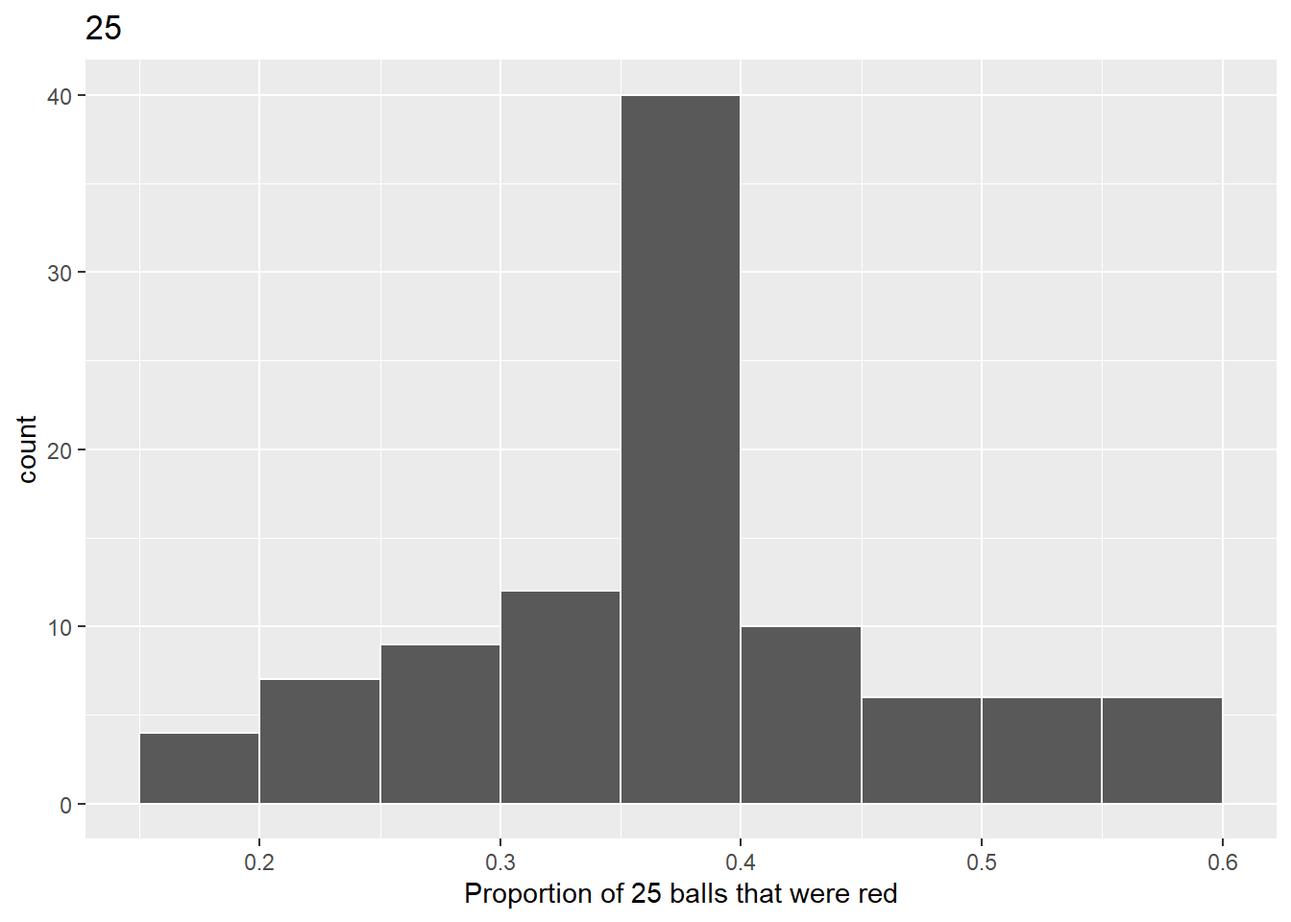
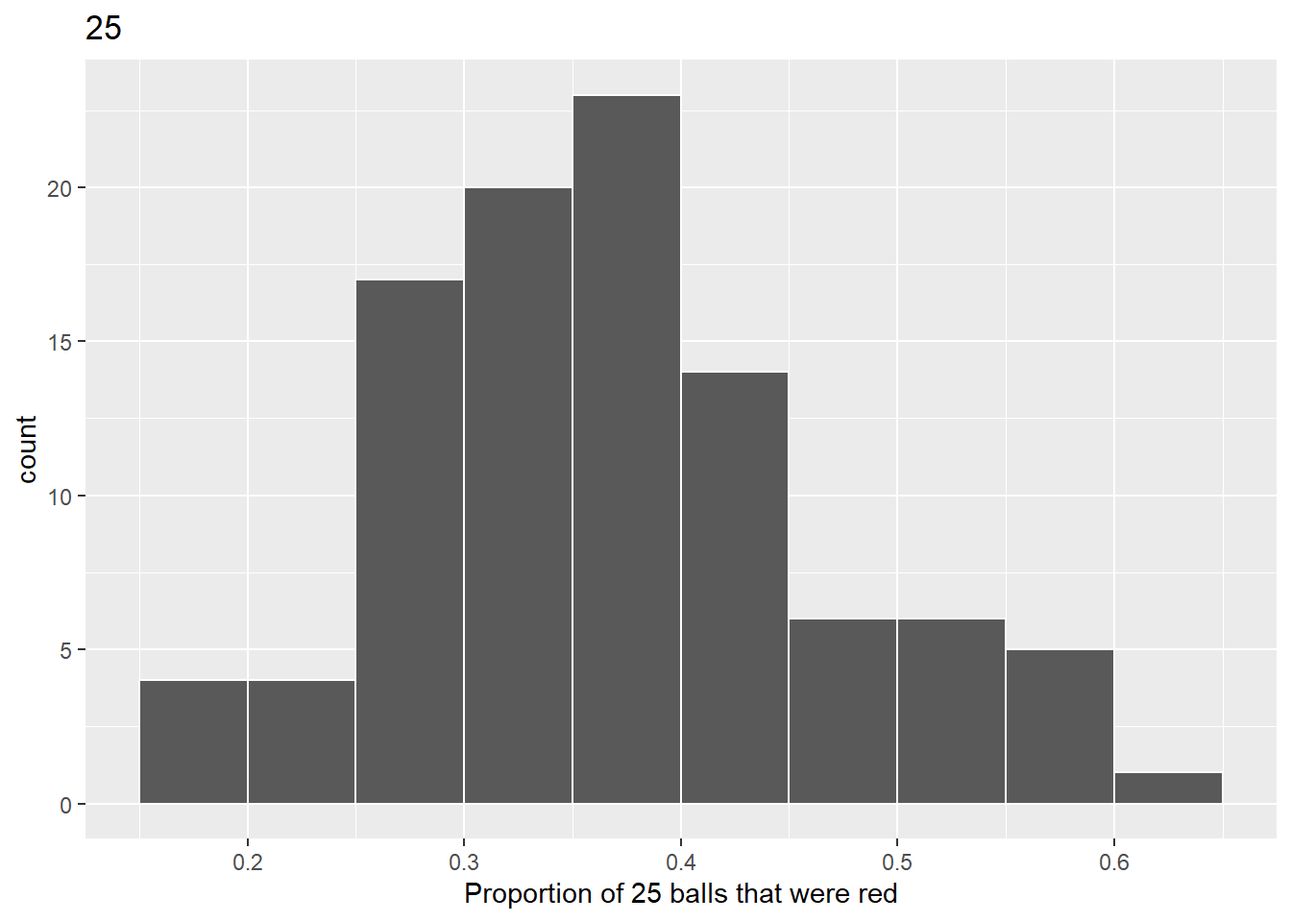
Initial commit

diff --git a/docs/posts/Amostragem/Amostragem.html b/docs/posts/Amostragem/Amostragem.html
@@ -7,7 +7,7 @@
 <meta name="viewport" content="width=device-width, initial-scale=1.0, user-scalable=yes">
 
 <meta name="author" content="Gabriel Palucci Rosa">
-<meta name="dcterms.date" content="2023-12-22">
+<meta name="dcterms.date" content="2023-12-20">
 
 <title>Gabriel Palucci Rosa - Pensando sobre o processo de Amostragem</title>
 <style>
@@ -174,9 +174,9 @@ background-size: cover;
     <div class="quarto-title column-body">
       <h1 class="title">Pensando sobre o processo de Amostragem</h1>
                                 <div class="quarto-categories">
-                <div class="quarto-category">code</div>
-                <div class="quarto-category">soil</div>
-                <div class="quarto-category">analysis</div>
+                <div class="quarto-category">Solo</div>
+                <div class="quarto-category">Amostragem</div>
+                <div class="quarto-category">ggplot</div>
               </div>
                   </div>
   </div>
@@ -194,7 +194,7 @@ background-size: cover;
       <div>
       <div class="quarto-title-meta-heading">Published</div>
       <div class="quarto-title-meta-contents">
-        <p class="date">December 22, 2023</p>
+        <p class="date">December 20, 2023</p>
       </div>
     </div>
     
@@ -211,6 +211,10 @@ background-size: cover;
    
   <ul>
   <li><a href="#introdução" id="toc-introdução" class="nav-link active" data-scroll-target="#introdução">Introdução</a></li>
+  <li><a href="#estudo-de-caso" id="toc-estudo-de-caso" class="nav-link" data-scroll-target="#estudo-de-caso">Estudo de Caso</a>
+  <ul class="collapse">
+  <li><a href="#utilizando-bolinhas-para-enteder-processo-de-amostragem" id="toc-utilizando-bolinhas-para-enteder-processo-de-amostragem" class="nav-link" data-scroll-target="#utilizando-bolinhas-para-enteder-processo-de-amostragem">Utilizando Bolinhas para enteder processo de amostragem</a></li>
+  </ul></li>
   </ul>
 </nav>
     </div>
@@ -223,14 +227,18 @@ background-size: cover;
 
 <section id="introdução" class="level1">
 <h1>Introdução</h1>
-<p>Uns dos vários desafios na realizar uma pesquisa ciêntifica é planejar e executar, de forma eficiente, o processo de deliamento amostral.Um boa amamostragem permitira, realizar melhor discussão sobre dados coletados.</p>
-<p>Nessa aula iremos entender um pouco como funciona a realização de uma amostragem e os efeitos de realizar poucas repetições ou diferentes tamanho da coleta da amostra. Para isso utilizaremos uma base de dados de bolinhhas vermelhas e brancas.</p>
-<p>Importante lembrar o processo de amostragem necessita uma repetição para obter uma frequencia de % da ocorrência do do valor.</p>
+<p>Uns dos vários desafios na realizar uma pesquisa ciêntifica é planejar e executar, de forma eficiente, o processo de deliamento amostral.Um boa amamostragem permitira, realizar melhor discussão sobre dados coletados. Esse post busco apresentar um pouco sobre o processo de realizar amostragem e os efeitos de realizar poucas repetições ou diferentes tamanho da coleta da amostra.</p>
+<p>Antes de utilizar exemplos sobre solo, utilizaremos uma base de dados de bolinhhas vermelhas e brancas. Importante lembrar o processo de amostragem necessita uma repetição para obter uma frequencia de % da ocorrência do do valor.</p>
 <p>Assim, existe dois efeitos improtantes que serão descutidos nesse tópico</p>
 <ul>
 <li>Efeito na variação de dados nas amostragem</li>
 <li>EFeito do tamanho da amostragem na variação da amostra</li>
 </ul>
+</section>
+<section id="estudo-de-caso" class="level1">
+<h1>Estudo de Caso</h1>
+<section id="utilizando-bolinhas-para-enteder-processo-de-amostragem" class="level2">
+<h2 class="anchored" data-anchor-id="utilizando-bolinhas-para-enteder-processo-de-amostragem">Utilizando Bolinhas para enteder processo de amostragem</h2>
 <p>#/Pacotes</p>
 <div class="cell">
 <div class="sourceCode cell-code" id="cb1"><pre class="sourceCode r code-with-copy"><code class="sourceCode r"><span id="cb1-1"><a href="#cb1-1" aria-hidden="true" tabindex="-1"></a><span class="fu">library</span>(tidyverse)</span></code><button title="Copy to Clipboard" class="code-copy-button"><i class="bi"></i></button></pre></div>
@@ -249,7 +257,7 @@ background-size: cover;
 <div class="sourceCode cell-code" id="cb3"><pre class="sourceCode r code-with-copy"><code class="sourceCode r"><span id="cb3-1"><a href="#cb3-1" aria-hidden="true" tabindex="-1"></a><span class="fu">library</span>(moderndive)</span></code><button title="Copy to Clipboard" class="code-copy-button"><i class="bi"></i></button></pre></div>
 </div>
 <p>#/Dados</p>
-<p>Para isso vamos utilizar a base de dados bowl para demostrar o processo de amostragem</p>
+<p>Para isso vamos utilizar a base de dados <em>bowl</em> para demostrar o processo de amostragem</p>
 <div class="cell">
 <div class="sourceCode cell-code" id="cb4"><pre class="sourceCode r code-with-copy"><code class="sourceCode r"><span id="cb4-1"><a href="#cb4-1" aria-hidden="true" tabindex="-1"></a>bowl</span></code><button title="Copy to Clipboard" class="code-copy-button"><i class="bi"></i></button></pre></div>
 <div class="cell-output cell-output-stdout">
@@ -273,7 +281,7 @@ background-size: cover;
 <div class="sourceCode cell-code" id="cb6"><pre class="sourceCode r code-with-copy"><code class="sourceCode r"><span id="cb6-1"><a href="#cb6-1" aria-hidden="true" tabindex="-1"></a>virtual_shovel <span class="ot">&lt;-</span> bowl <span class="sc">%&gt;%</span> </span>
 <span id="cb6-2"><a href="#cb6-2" aria-hidden="true" tabindex="-1"></a>     <span class="fu">rep_sample_n</span>(<span class="at">size =</span> <span class="dv">50</span>)</span></code><button title="Copy to Clipboard" class="code-copy-button"><i class="bi"></i></button></pre></div>
 </div>
-<p>Nesse caso selecionamos 50 amostras de forma randômica do nossa base de dados.</p>
+<p>Nesse caso, utilizamos o comando <em>rep_sample_n</em> para selecior 50 amostras de forma randômica do nossa base de dados.</p>
 <div class="cell">
 <div class="sourceCode cell-code" id="cb7"><pre class="sourceCode r code-with-copy"><code class="sourceCode r"><span id="cb7-1"><a href="#cb7-1" aria-hidden="true" tabindex="-1"></a>virtual_shovel <span class="sc">%&gt;%</span></span>
 <span id="cb7-2"><a href="#cb7-2" aria-hidden="true" tabindex="-1"></a>  <span class="fu">mutate</span>(<span class="at">is_red =</span> color <span class="sc">==</span> <span class="st">"red"</span>) <span class="sc">%&gt;%</span> </span>
@@ -283,7 +291,7 @@ background-size: cover;
 <pre><code># A tibble: 1 × 3
   replicate num_red prop_red
       &lt;int&gt;   &lt;int&gt;    &lt;dbl&gt;
-1         1      21     0.42</code></pre>
+1         1      15      0.3</code></pre>
 </div>
 </div>
 <p>Nesse exemplo, pegamos nossa base de dados <em>virtual_shovel</em> criamos uma variaável Logical utilizando argumento cor é igual a vermelho, posteriormente realizamos summarize da soma dessa nova variável e finalizamos obtendo a proporção de vermelho na amostragem total que é 50.</p>
@@ -297,21 +305,22 @@ background-size: cover;
 <pre><code># A tibble: 33 × 3
    replicate   red prop_red
        &lt;int&gt; &lt;int&gt;    &lt;dbl&gt;
- 1         1    20     0.4 
- 2         2    21     0.42
+ 1         1    16     0.32
+ 2         2    16     0.32
  3         3    14     0.28
- 4         4    11     0.22
- 5         5    15     0.3 
- 6         6    20     0.4 
- 7         7    19     0.38
- 8         8    17     0.34
- 9         9    16     0.32
-10        10    23     0.46
+ 4         4    16     0.32
+ 5         5    17     0.34
+ 6         6    21     0.42
+ 7         7    14     0.28
+ 8         8    16     0.32
+ 9         9    14     0.28
+10        10    17     0.34
 # ℹ 23 more rows</code></pre>
 </div>
 </div>
 <p>Como podemos observar, realizamos uma amostragem de 50 bolinhas 33 vezes e obtemos a proporção de bolinhar vermelhas em cada amostragem.</p>
-<p><em>O valor do tamanho da amostragem influência na proporção das bolinhas vermelhas?</em> <em>O valor do tamanho da amostragem influência desvio padrão das bolinhas vermelhas?</em></p>
+<p><em>O valor do tamanho da amostragem influência na proporção das bolinhas vermelhas?</em></p>
+<p><em>O valor do tamanho da amostragem influência desvio padrão das bolinhas vermelhas?</em></p>
 <p>Desde modo iremos realizar amostragem 25,50, 100 bolinhas em 100 repetições e observar a resposta da porcentagem e sua frequencia</p>
 <div class="cell">
 <div class="sourceCode cell-code" id="cb11"><pre class="sourceCode r code-with-copy"><code class="sourceCode r"><span id="cb11-1"><a href="#cb11-1" aria-hidden="true" tabindex="-1"></a>virtual_samples_25 <span class="ot">&lt;-</span> bowl <span class="sc">%&gt;%</span> </span>
@@ -390,7 +399,7 @@ background-size: cover;
 <pre><code># A tibble: 1 × 1
       sd
    &lt;dbl&gt;
-1 0.0655</code></pre>
+1 0.0688</code></pre>
 </div>
 <div class="sourceCode cell-code" id="cb16"><pre class="sourceCode r code-with-copy"><code class="sourceCode r"><span id="cb16-1"><a href="#cb16-1" aria-hidden="true" tabindex="-1"></a><span class="co"># n = 100</span></span>
 <span id="cb16-2"><a href="#cb16-2" aria-hidden="true" tabindex="-1"></a>virtual_prop_red_100 <span class="sc">%&gt;%</span> </span>
@@ -399,182 +408,14 @@ background-size: cover;
 <pre><code># A tibble: 1 × 1
       sd
    &lt;dbl&gt;
-1 0.0465</code></pre>
+1 0.0476</code></pre>
 </div>
 </div>
-<p>So as the sample size increases, the standard deviation of the proportion of red balls decreases. This type of standard deviation has another special name: standard error. Standard errors quantify the effect of sampling variation induced on our estimates. In other words, they quantify how much we can expect different proportions of a shovel’s balls that are red to vary from one sample to another sample to another sample, and so on. As a general rule, as sample size increases, the standard error decreases.</p>
-<p>Accuracy describes how “on target” our estimates are, whereas precision describes how “consistent” our estimates are</p>
-<p>Uns dos vários desafios na realizar uma pesquisa ciêntifica é planejar e executar, de forma eficiente, o processo de deliamento amostral.Um boa amamostragem permitira, realizar melhor discussão sobre dados coletados.</p>
-<p>Nessa aula iremos entender um pouco como funciona a realização de uma amostragem e os efeitos de realizar poucas repetições ou diferentes tamanho da coleta da amostra. Para isso utilizaremos uma base de dados de bolinhhas vermelhas e brancas.</p>
-<p>Importante lembrar o processo de amostragem necessita uma repetição para obter uma frequencia de % da ocorrência do do valor.</p>
-<p>Assim, existe dois efeitos improtantes que serão descutidos nesse tópico</p>
-<ul>
-<li>Efeito na variação de dados nas amostragem</li>
-<li>EFeito do tamanho da amostragem na variação da amostra</li>
-</ul>
-<p>#/Pacotes</p>
-<div class="cell">
-<div class="sourceCode cell-code" id="cb18"><pre class="sourceCode r code-with-copy"><code class="sourceCode r"><span id="cb18-1"><a href="#cb18-1" aria-hidden="true" tabindex="-1"></a><span class="fu">library</span>(tidyverse)</span>
-<span id="cb18-2"><a href="#cb18-2" aria-hidden="true" tabindex="-1"></a><span class="fu">library</span>(moderndive)</span></code><button title="Copy to Clipboard" class="code-copy-button"><i class="bi"></i></button></pre></div>
-</div>
-<p>#/Dados</p>
-<p>Para isso vamos utilizar a base de dados bowl para demostrar o processo de amostragem</p>
-<div class="cell">
-<div class="sourceCode cell-code" id="cb19"><pre class="sourceCode r code-with-copy"><code class="sourceCode r"><span id="cb19-1"><a href="#cb19-1" aria-hidden="true" tabindex="-1"></a>bowl</span></code><button title="Copy to Clipboard" class="code-copy-button"><i class="bi"></i></button></pre></div>
-<div class="cell-output cell-output-stdout">
-<pre><code># A tibble: 2,400 × 2
-   ball_ID color
-     &lt;int&gt; &lt;chr&gt;
- 1       1 white
- 2       2 white
- 3       3 white
- 4       4 red  
- 5       5 white
- 6       6 white
- 7       7 red  
- 8       8 white
- 9       9 red  
-10      10 white
-# ℹ 2,390 more rows</code></pre>
-</div>
-</div>
-<div class="cell">
-<div class="sourceCode cell-code" id="cb21"><pre class="sourceCode r code-with-copy"><code class="sourceCode r"><span id="cb21-1"><a href="#cb21-1" aria-hidden="true" tabindex="-1"></a>virtual_shovel <span class="ot">&lt;-</span> bowl <span class="sc">%&gt;%</span> </span>
-<span id="cb21-2"><a href="#cb21-2" aria-hidden="true" tabindex="-1"></a>     <span class="fu">rep_sample_n</span>(<span class="at">size =</span> <span class="dv">50</span>)</span></code><button title="Copy to Clipboard" class="code-copy-button"><i class="bi"></i></button></pre></div>
-</div>
-<p>Nesse caso selecionamos 50 amostras de forma randômica do nossa base de dados.</p>
-<div class="cell">
-<div class="sourceCode cell-code" id="cb22"><pre class="sourceCode r code-with-copy"><code class="sourceCode r"><span id="cb22-1"><a href="#cb22-1" aria-hidden="true" tabindex="-1"></a>virtual_shovel <span class="sc">%&gt;%</span></span>
-<span id="cb22-2"><a href="#cb22-2" aria-hidden="true" tabindex="-1"></a>  <span class="fu">mutate</span>(<span class="at">is_red =</span> color <span class="sc">==</span> <span class="st">"red"</span>) <span class="sc">%&gt;%</span> </span>
-<span id="cb22-3"><a href="#cb22-3" aria-hidden="true" tabindex="-1"></a>  <span class="fu">summarize</span>(<span class="at">num_red =</span> <span class="fu">sum</span>(is_red)) <span class="sc">%&gt;%</span> </span>
-<span id="cb22-4"><a href="#cb22-4" aria-hidden="true" tabindex="-1"></a>  <span class="fu">mutate</span>(<span class="at">prop_red =</span> num_red <span class="sc">/</span> <span class="dv">50</span>)</span></code><button title="Copy to Clipboard" class="code-copy-button"><i class="bi"></i></button></pre></div>
-<div class="cell-output cell-output-stdout">
-<pre><code># A tibble: 1 × 3
-  replicate num_red prop_red
-      &lt;int&gt;   &lt;int&gt;    &lt;dbl&gt;
-1         1      18     0.36</code></pre>
-</div>
-</div>
-<p>Nesse exemplo, pegamos nossa base de dados <em>virtual_shovel</em> criamos uma variaável Logical utilizando argumento cor é igual a vermelho, posteriormente realizamos summarize da soma dessa nova variável e finalizamos obtendo a proporção de vermelho na amostragem total que é 50.</p>
-<div class="cell">
-<div class="sourceCode cell-code" id="cb24"><pre class="sourceCode r code-with-copy"><code class="sourceCode r"><span id="cb24-1"><a href="#cb24-1" aria-hidden="true" tabindex="-1"></a>bowl <span class="sc">%&gt;%</span> </span>
-<span id="cb24-2"><a href="#cb24-2" aria-hidden="true" tabindex="-1"></a>     <span class="fu">rep_sample_n</span>(<span class="at">size =</span> <span class="dv">50</span>, <span class="at">reps =</span> <span class="dv">33</span>) <span class="sc">%&gt;%</span> </span>
-<span id="cb24-3"><a href="#cb24-3" aria-hidden="true" tabindex="-1"></a>     <span class="fu">group_by</span>(replicate) <span class="sc">%&gt;%</span> </span>
-<span id="cb24-4"><a href="#cb24-4" aria-hidden="true" tabindex="-1"></a>     <span class="fu">summarize</span>(<span class="at">red =</span> <span class="fu">sum</span>(color <span class="sc">==</span> <span class="st">"red"</span>)) <span class="sc">%&gt;%</span> </span>
-<span id="cb24-5"><a href="#cb24-5" aria-hidden="true" tabindex="-1"></a>     <span class="fu">mutate</span>(<span class="at">prop_red =</span> red <span class="sc">/</span> <span class="dv">50</span>)</span></code><button title="Copy to Clipboard" class="code-copy-button"><i class="bi"></i></button></pre></div>
-<div class="cell-output cell-output-stdout">
-<pre><code># A tibble: 33 × 3
-   replicate   red prop_red
-       &lt;int&gt; &lt;int&gt;    &lt;dbl&gt;
- 1         1    16     0.32
- 2         2    19     0.38
- 3         3    21     0.42
- 4         4    25     0.5 
- 5         5    20     0.4 
- 6         6    16     0.32
- 7         7    21     0.42
- 8         8    24     0.48
- 9         9    15     0.3 
-10        10    20     0.4 
-# ℹ 23 more rows</code></pre>
-</div>
-</div>
-<p>Como podemos observar, realizamos uma amostragem de 50 bolinhas 33 vezes e obtemos a proporção de bolinhar vermelhas em cada amostragem.</p>
-<p><em>O valor do tamanho da amostragem influência na proporção das bolinhas vermelhas?</em> <em>O valor do tamanho da amostragem influência desvio padrão das bolinhas vermelhas?</em></p>
-<p>Desde modo iremos realizar amostragem 25,50, 100 bolinhas em 100 repetições e observar a resposta da porcentagem e sua frequencia</p>
-<div class="cell">
-<div class="sourceCode cell-code" id="cb26"><pre class="sourceCode r code-with-copy"><code class="sourceCode r"><span id="cb26-1"><a href="#cb26-1" aria-hidden="true" tabindex="-1"></a>virtual_samples_25 <span class="ot">&lt;-</span> bowl <span class="sc">%&gt;%</span> </span>
-<span id="cb26-2"><a href="#cb26-2" aria-hidden="true" tabindex="-1"></a>  <span class="fu">rep_sample_n</span>(<span class="at">size =</span> <span class="dv">25</span>, <span class="at">reps =</span> <span class="dv">100</span>) <span class="sc">%&gt;%</span> </span>
-<span id="cb26-3"><a href="#cb26-3" aria-hidden="true" tabindex="-1"></a>  <span class="fu">group_by</span>(replicate) <span class="sc">%&gt;%</span> </span>
-<span id="cb26-4"><a href="#cb26-4" aria-hidden="true" tabindex="-1"></a>  <span class="fu">summarize</span>(<span class="at">red =</span> <span class="fu">sum</span>(color <span class="sc">==</span> <span class="st">"red"</span>)) <span class="sc">%&gt;%</span> </span>
-<span id="cb26-5"><a href="#cb26-5" aria-hidden="true" tabindex="-1"></a>  <span class="fu">mutate</span>(<span class="at">prop_red =</span> red <span class="sc">/</span> <span class="dv">25</span>)</span>
-<span id="cb26-6"><a href="#cb26-6" aria-hidden="true" tabindex="-1"></a></span>
-<span id="cb26-7"><a href="#cb26-7" aria-hidden="true" tabindex="-1"></a>  </span>
-<span id="cb26-8"><a href="#cb26-8" aria-hidden="true" tabindex="-1"></a><span class="co"># 1.c) Plot distribution via a histogram</span></span>
-<span id="cb26-9"><a href="#cb26-9" aria-hidden="true" tabindex="-1"></a><span class="fu">ggplot</span>(virtual_samples_25, <span class="fu">aes</span>(<span class="at">x =</span> prop_red)) <span class="sc">+</span></span>
-<span id="cb26-10"><a href="#cb26-10" aria-hidden="true" tabindex="-1"></a>  <span class="fu">geom_histogram</span>(<span class="at">binwidth =</span> <span class="fl">0.05</span>, <span class="at">boundary =</span> <span class="fl">0.4</span>, <span class="at">color =</span> <span class="st">"white"</span>) <span class="sc">+</span></span>
-<span id="cb26-11"><a href="#cb26-11" aria-hidden="true" tabindex="-1"></a>  <span class="fu">labs</span>(<span class="at">x =</span> <span class="st">"Proportion of 25 balls that were red"</span>, <span class="at">title =</span> <span class="st">"25"</span>) </span></code><button title="Copy to Clipboard" class="code-copy-button"><i class="bi"></i></button></pre></div>
-<div class="cell-output-display">
-<div>
-<figure class="figure">
-<p><img src="Amostragem_files/figure-html/unnamed-chunk-13-1.png" class="img-fluid figure-img" width="672"></p>
-</figure>
-</div>
-</div>
-<div class="sourceCode cell-code" id="cb27"><pre class="sourceCode r code-with-copy"><code class="sourceCode r"><span id="cb27-1"><a href="#cb27-1" aria-hidden="true" tabindex="-1"></a><span class="co"># Segment 2: sample size = 50 ------------------------------</span></span>
-<span id="cb27-2"><a href="#cb27-2" aria-hidden="true" tabindex="-1"></a><span class="co"># 2.a) Virtually use shovel 1000 times</span></span>
-<span id="cb27-3"><a href="#cb27-3" aria-hidden="true" tabindex="-1"></a>virtual_samples_50 <span class="ot">&lt;-</span> bowl <span class="sc">%&gt;%</span> </span>
-<span id="cb27-4"><a href="#cb27-4" aria-hidden="true" tabindex="-1"></a>  <span class="fu">rep_sample_n</span>(<span class="at">size =</span> <span class="dv">50</span>, <span class="at">reps =</span> <span class="dv">1000</span>)</span>
-<span id="cb27-5"><a href="#cb27-5" aria-hidden="true" tabindex="-1"></a></span>
-<span id="cb27-6"><a href="#cb27-6" aria-hidden="true" tabindex="-1"></a><span class="co"># 2.b) Compute resulting 1000 replicates of proportion red</span></span>
-<span id="cb27-7"><a href="#cb27-7" aria-hidden="true" tabindex="-1"></a>virtual_prop_red_50 <span class="ot">&lt;-</span> virtual_samples_50 <span class="sc">%&gt;%</span> </span>
-<span id="cb27-8"><a href="#cb27-8" aria-hidden="true" tabindex="-1"></a>  <span class="fu">group_by</span>(replicate) <span class="sc">%&gt;%</span> </span>
-<span id="cb27-9"><a href="#cb27-9" aria-hidden="true" tabindex="-1"></a>  <span class="fu">summarize</span>(<span class="at">red =</span> <span class="fu">sum</span>(color <span class="sc">==</span> <span class="st">"red"</span>)) <span class="sc">%&gt;%</span> </span>
-<span id="cb27-10"><a href="#cb27-10" aria-hidden="true" tabindex="-1"></a>  <span class="fu">mutate</span>(<span class="at">prop_red =</span> red <span class="sc">/</span> <span class="dv">50</span>)</span>
-<span id="cb27-11"><a href="#cb27-11" aria-hidden="true" tabindex="-1"></a></span>
-<span id="cb27-12"><a href="#cb27-12" aria-hidden="true" tabindex="-1"></a><span class="co"># 2.c) Plot distribution via a histogram</span></span>
-<span id="cb27-13"><a href="#cb27-13" aria-hidden="true" tabindex="-1"></a><span class="fu">ggplot</span>(virtual_prop_red_50, <span class="fu">aes</span>(<span class="at">x =</span> prop_red)) <span class="sc">+</span></span>
-<span id="cb27-14"><a href="#cb27-14" aria-hidden="true" tabindex="-1"></a>  <span class="fu">geom_histogram</span>(<span class="at">binwidth =</span> <span class="fl">0.05</span>, <span class="at">boundary =</span> <span class="fl">0.4</span>, <span class="at">color =</span> <span class="st">"white"</span>) <span class="sc">+</span></span>
-<span id="cb27-15"><a href="#cb27-15" aria-hidden="true" tabindex="-1"></a>  <span class="fu">labs</span>(<span class="at">x =</span> <span class="st">"Proportion of 50 balls that were red"</span>, <span class="at">title =</span> <span class="st">"50"</span>)  </span></code><button title="Copy to Clipboard" class="code-copy-button"><i class="bi"></i></button></pre></div>
-<div class="cell-output-display">
-<div>
-<figure class="figure">
-<p><img src="Amostragem_files/figure-html/unnamed-chunk-13-2.png" class="img-fluid figure-img" width="672"></p>
-</figure>
-</div>
-</div>
-<div class="sourceCode cell-code" id="cb28"><pre class="sourceCode r code-with-copy"><code class="sourceCode r"><span id="cb28-1"><a href="#cb28-1" aria-hidden="true" tabindex="-1"></a><span class="co"># Segment 3: sample size = 100 ------------------------------</span></span>
-<span id="cb28-2"><a href="#cb28-2" aria-hidden="true" tabindex="-1"></a><span class="co"># 3.a) Virtually using shovel with 100 slots 1000 times</span></span>
-<span id="cb28-3"><a href="#cb28-3" aria-hidden="true" tabindex="-1"></a>virtual_samples_100 <span class="ot">&lt;-</span> bowl <span class="sc">%&gt;%</span> </span>
-<span id="cb28-4"><a href="#cb28-4" aria-hidden="true" tabindex="-1"></a>  <span class="fu">rep_sample_n</span>(<span class="at">size =</span> <span class="dv">100</span>, <span class="at">reps =</span> <span class="dv">1000</span>)</span>
-<span id="cb28-5"><a href="#cb28-5" aria-hidden="true" tabindex="-1"></a></span>
-<span id="cb28-6"><a href="#cb28-6" aria-hidden="true" tabindex="-1"></a><span class="co"># 3.b) Compute resulting 1000 replicates of proportion red</span></span>
-<span id="cb28-7"><a href="#cb28-7" aria-hidden="true" tabindex="-1"></a>virtual_prop_red_100 <span class="ot">&lt;-</span> virtual_samples_100 <span class="sc">%&gt;%</span> </span>
-<span id="cb28-8"><a href="#cb28-8" aria-hidden="true" tabindex="-1"></a>  <span class="fu">group_by</span>(replicate) <span class="sc">%&gt;%</span> </span>
-<span id="cb28-9"><a href="#cb28-9" aria-hidden="true" tabindex="-1"></a>  <span class="fu">summarize</span>(<span class="at">red =</span> <span class="fu">sum</span>(color <span class="sc">==</span> <span class="st">"red"</span>)) <span class="sc">%&gt;%</span> </span>
-<span id="cb28-10"><a href="#cb28-10" aria-hidden="true" tabindex="-1"></a>  <span class="fu">mutate</span>(<span class="at">prop_red =</span> red <span class="sc">/</span> <span class="dv">100</span>)</span>
-<span id="cb28-11"><a href="#cb28-11" aria-hidden="true" tabindex="-1"></a></span>
-<span id="cb28-12"><a href="#cb28-12" aria-hidden="true" tabindex="-1"></a><span class="co"># 3.c) Plot distribution via a histogram</span></span>
-<span id="cb28-13"><a href="#cb28-13" aria-hidden="true" tabindex="-1"></a><span class="fu">ggplot</span>(virtual_prop_red_100, <span class="fu">aes</span>(<span class="at">x =</span> prop_red)) <span class="sc">+</span></span>
-<span id="cb28-14"><a href="#cb28-14" aria-hidden="true" tabindex="-1"></a>  <span class="fu">geom_histogram</span>(<span class="at">binwidth =</span> <span class="fl">0.05</span>, <span class="at">boundary =</span> <span class="fl">0.4</span>, <span class="at">color =</span> <span class="st">"white"</span>) <span class="sc">+</span></span>
-<span id="cb28-15"><a href="#cb28-15" aria-hidden="true" tabindex="-1"></a>  <span class="fu">labs</span>(<span class="at">x =</span> <span class="st">"Proportion of 100 balls that were red"</span>, <span class="at">title =</span> <span class="st">"100"</span>) </span></code><button title="Copy to Clipboard" class="code-copy-button"><i class="bi"></i></button></pre></div>
-<div class="cell-output-display">
-<div>
-<figure class="figure">
-<p><img src="Amostragem_files/figure-html/unnamed-chunk-13-3.png" class="img-fluid figure-img" width="672"></p>
-</figure>
-</div>
-</div>
-</div>
-<div class="cell">
-<div class="sourceCode cell-code" id="cb29"><pre class="sourceCode r code-with-copy"><code class="sourceCode r"><span id="cb29-1"><a href="#cb29-1" aria-hidden="true" tabindex="-1"></a><span class="co"># n = 25</span></span>
-<span id="cb29-2"><a href="#cb29-2" aria-hidden="true" tabindex="-1"></a></span>
-<span id="cb29-3"><a href="#cb29-3" aria-hidden="true" tabindex="-1"></a><span class="co"># virtual_prop_red_25 %&gt;% </span></span>
-<span id="cb29-4"><a href="#cb29-4" aria-hidden="true" tabindex="-1"></a><span class="co">#   summarize(sd = sd(prop_red))</span></span>
-<span id="cb29-5"><a href="#cb29-5" aria-hidden="true" tabindex="-1"></a></span>
-<span id="cb29-6"><a href="#cb29-6" aria-hidden="true" tabindex="-1"></a><span class="co"># n = 50</span></span>
-<span id="cb29-7"><a href="#cb29-7" aria-hidden="true" tabindex="-1"></a>virtual_prop_red_50 <span class="sc">%&gt;%</span> </span>
-<span id="cb29-8"><a href="#cb29-8" aria-hidden="true" tabindex="-1"></a>  <span class="fu">summarize</span>(<span class="at">sd =</span> <span class="fu">sd</span>(prop_red))</span></code><button title="Copy to Clipboard" class="code-copy-button"><i class="bi"></i></button></pre></div>
-<div class="cell-output cell-output-stdout">
-<pre><code># A tibble: 1 × 1
-      sd
-   &lt;dbl&gt;
-1 0.0686</code></pre>
-</div>
-<div class="sourceCode cell-code" id="cb31"><pre class="sourceCode r code-with-copy"><code class="sourceCode r"><span id="cb31-1"><a href="#cb31-1" aria-hidden="true" tabindex="-1"></a><span class="co"># n = 100</span></span>
-<span id="cb31-2"><a href="#cb31-2" aria-hidden="true" tabindex="-1"></a>virtual_prop_red_100 <span class="sc">%&gt;%</span> </span>
-<span id="cb31-3"><a href="#cb31-3" aria-hidden="true" tabindex="-1"></a>  <span class="fu">summarize</span>(<span class="at">sd =</span> <span class="fu">sd</span>(prop_red))</span></code><button title="Copy to Clipboard" class="code-copy-button"><i class="bi"></i></button></pre></div>
-<div class="cell-output cell-output-stdout">
-<pre><code># A tibble: 1 × 1
-      sd
-   &lt;dbl&gt;
-1 0.0453</code></pre>
-</div>
-</div>
-<p>So as the sample size increases, the standard deviation of the proportion of red balls decreases. This type of standard deviation has another special name: standard error. Standard errors quantify the effect of sampling variation induced on our estimates. In other words, they quantify how much we can expect different proportions of a shovel’s balls that are red to vary from one sample to another sample to another sample, and so on. As a general rule, as sample size increases, the standard error decreases.</p>
-<p>Accuracy describes how “on target” our estimates are, whereas precision describes how “consistent” our estimates are</p>
+<p>À medida que o tamanho da amostra aumenta, o desvio padrão da proporção de bolas vermelhas diminui. Este tipo de desvio padrão tem outro nome especial: erro padrão. Os erros padrão quantificam o efeito da variação de amostragem induzida em nossas estimativas. Em outras palavras, eles quantificam quanto podemos esperar que diferentes proporções de bolas vermelhas em uma pá variem de uma amostra para outra, e assim por diante.</p>
+<p>Como regra geral, à medida que o tamanho da amostra aumenta, o erro padrão diminui.</p>
 
 
+</section>
 </section>
 
 </main> <!-- /main -->

diff --git a/docs/blog.html b/docs/blog.html
@@ -248,7 +248,7 @@ Jan 4, 2024
 </div>
 </a>
 </div>
-<div class="g-col-1" data-index="1" data-categories="Penguins,Dplyr,ggplot2" data-listing-date-sort="1703214000000" data-listing-file-modified-sort="1709679853772" data-listing-date-modified-sort="NaN" data-listing-reading-time-sort="6" data-listing-word-count-sort="1004">
+<div class="g-col-1" data-index="1" data-categories="Penguins,Dplyr,ggplot2" data-listing-date-sort="1703214000000" data-listing-file-modified-sort="1709729701873" data-listing-date-modified-sort="NaN" data-listing-reading-time-sort="6" data-listing-word-count-sort="1004">
 <a href="./posts/Tidy/tidyverse.html" class="quarto-grid-link">
 <div class="quarto-grid-item card h-100 card-left">
 <p class="card-img-top">
@@ -284,7 +284,7 @@ Dec 22, 2023
 </div>
 </a>
 </div>
-<div class="g-col-1" data-index="2" data-categories="Solo,Amostragem,ggplot" data-listing-date-sort="1703041200000" data-listing-file-modified-sort="1709661507804" data-listing-date-modified-sort="NaN" data-listing-reading-time-sort="4" data-listing-word-count-sort="698">
+<div class="g-col-1" data-index="2" data-categories="Solo,Amostragem,ggplot" data-listing-date-sort="1703041200000" data-listing-file-modified-sort="1709729721926" data-listing-date-modified-sort="NaN" data-listing-reading-time-sort="4" data-listing-word-count-sort="698">
 <a href="./posts/Amostragem/Amostragem.html" class="quarto-grid-link">
 <div class="quarto-grid-item card h-100 card-left">
 <p class="card-img-top">
